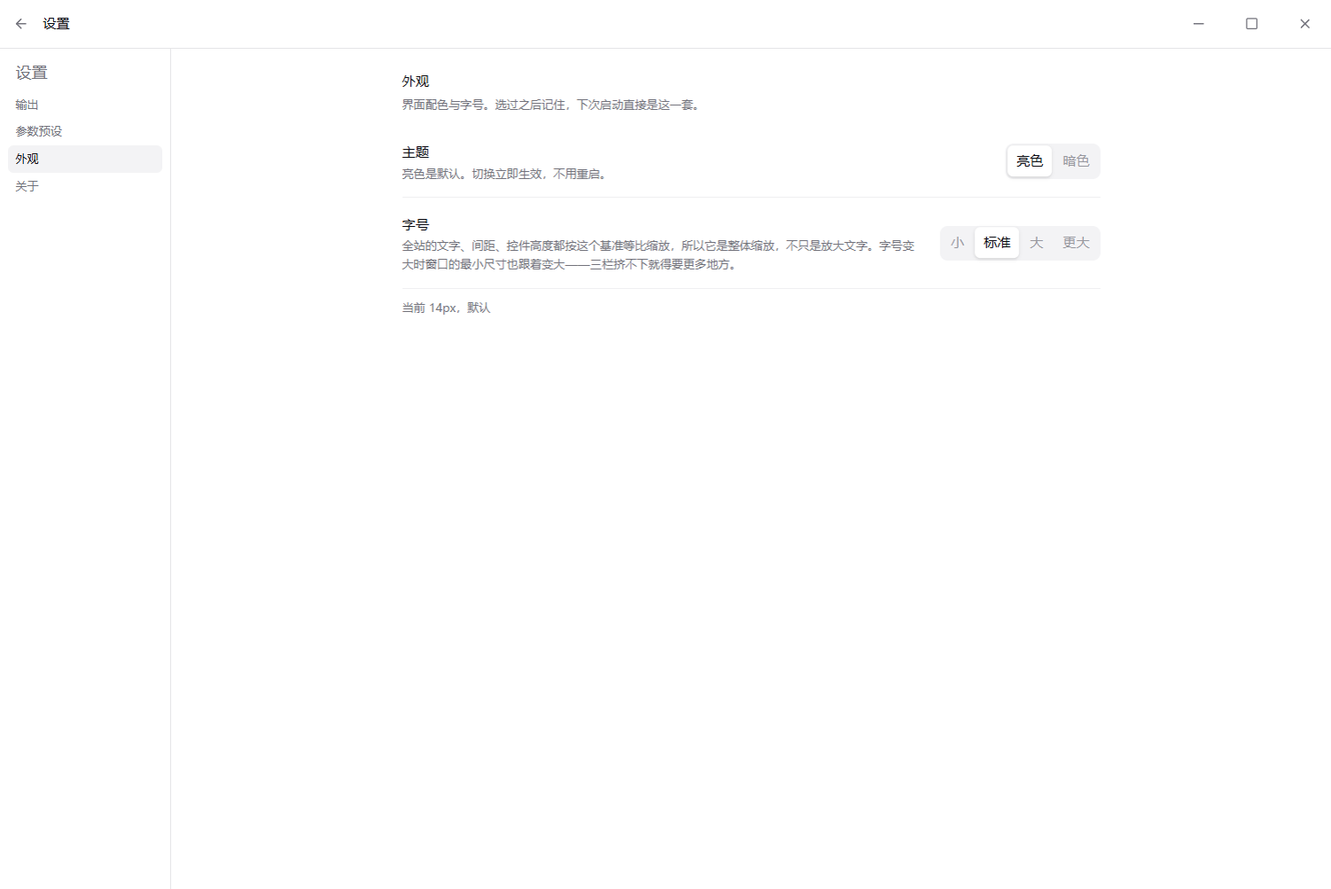
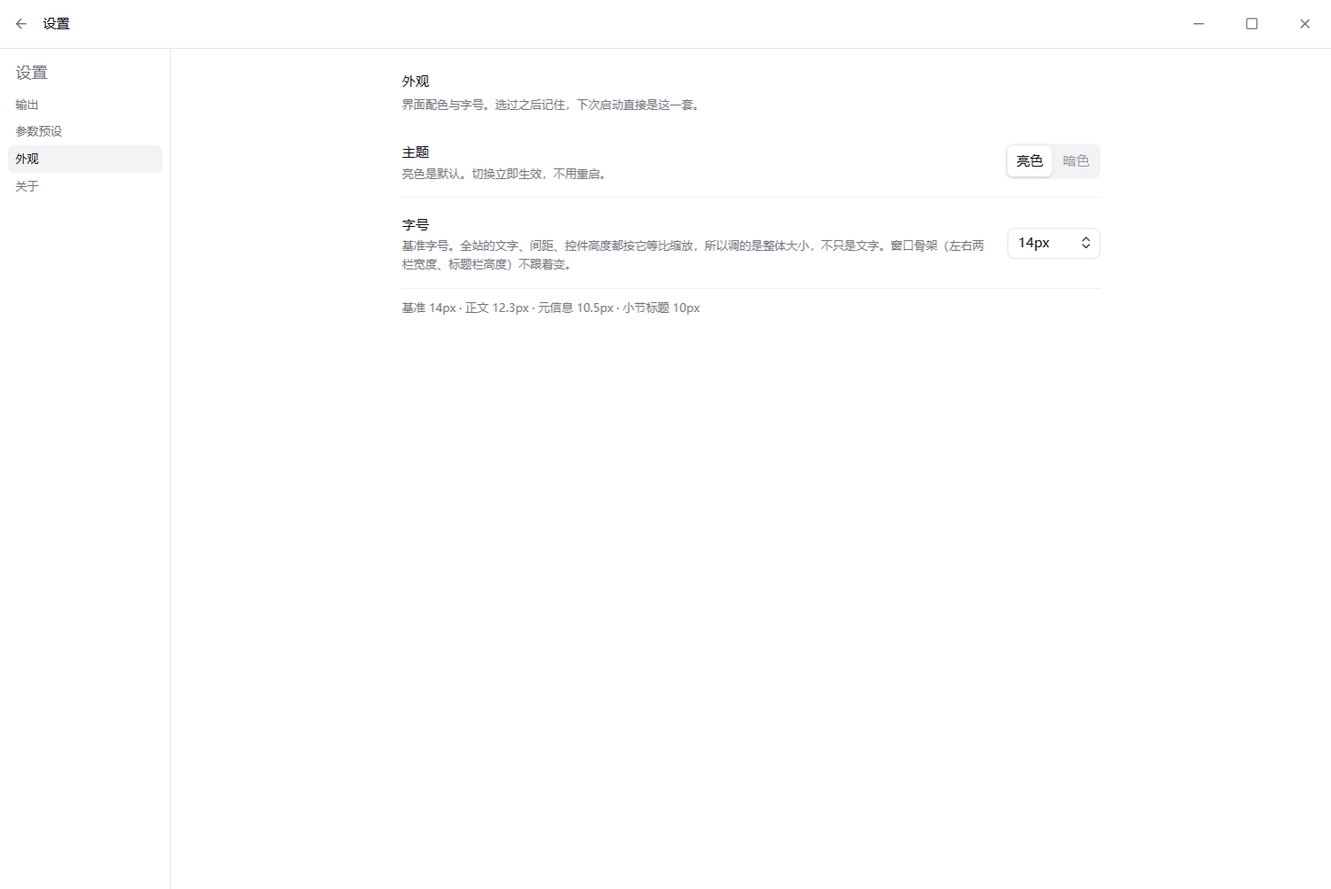
docs: 记下字号的返工与原因
ADR-019 修订：范围改成 10–24px 之后，"面板宽度跟着字号缩放"这个前提就不成立了——
24px 下三栏骨架要 1600px，窗口下限被顶到 1611px，普通笔记本装不下。
外壳尺寸写回固定像素，minWindowSize 与"存设置时撑开窗口"那套一起删掉。

把这条返工留在文档里的原因：它说明了一个顺序问题——先定取值范围，再定缩放策略。
反过来做就得返工一次，而这次只花了十几分钟，是因为改动都还在未提交状态。

设计系统的"该不该跟着缩放"表更新为"内容缩放、外壳不动"，并写清两类固定像素
各自的理由（对齐系统 chrome / 保住三栏骨架）。界面规格与测试清单同步。

验证：pre-commit 文风检查通过；openspec spec 用 REMOVED + ADDED 两条换两条
（工具移动目录时又遇到 EPERM，spec 与归档都手动核对过）

Refs: ADR-019

Changed region(s): [[0.3063, 0.2473, 0.8269, 0.3091], [0.3063, 0.34, 0.5206, 0.3709]]

diff --git a/docs/decisions.md b/docs/decisions.md
@@ -26,7 +26,7 @@
 | ADR-016 | 加亮暗两套主题，默认亮色（替代 ADR-007"只发暗色"） | 已接受 |
 | ADR-017 | 移除产品内的 AI 参数建议（替代 ADR-005） | 已接受 |
 | ADR-018 | 主界面与设置页分工：偏好搬进设置页，主界面只留转换 | 已接受 |
-| ADR-019 | 字号做成整体缩放，窗口下限跟着字号走 | 已接受 |
+| ADR-019 | 字号调的是根字号；外壳尺寸不跟着走 | 已接受 · 同日修订 |
 
 ---
 
@@ -330,36 +330,44 @@
 
 ---
 
-## ADR-019 · 字号做成整体缩放，窗口下限跟着字号走
+## ADR-019 · 字号调的是根字号；外壳尺寸不跟着走
 
-- **日期**：2026-09-23
+- **日期**：2026-09-23（同日修订过一次，见反馈第一条）
 - **状态**：已接受。补完 ADR-018 留下的设置页，把 ADR-016 的主题那套"首帧即正确"的做法复用到第二个偏好上。
-- **背景**：需求方要求设置页支持调全局字体大小。
+- **背景**：需求方要求设置页支持调全局字体大小，并指定了 10–24px 的范围与下拉的形态。
 - **决策**：这个项目的尺寸是从一个根字号派生的（`html { font-size: var(--font-size-base) }`，全站 rem），
-  所以"调字号"实现成**整体缩放**：小 13 / 标准 14 / 大 15 / 更大 16，默认标准。
-  同时把三处不跟着缩放的尺寸补齐——两档小字号改成 rem 令牌、两栏面板宽度与缩略图改成 rem、
-  窗口最小尺寸按档位等比放大。标题栏高度与窗口按钮仍是固定像素。
+  所以"调字号"实现成**整体缩放**：10–24px 逐像素可选、默认 14。
+  **但外壳尺寸不跟着缩放**：左右两栏宽度、标题栏高度、缩略图、窗口最小尺寸全部保持固定像素，
+  只有内容随根字号变。字号放大而窗口偏小时，顶栏与底栏靠文字截断降级。
+  另外把两档小字号从写死的 px 改成 rem 令牌（`text-label` / `text-metric`），它们要跟着放大。
 - **备选**：
   - 只放大文字、间距不动：做不到。字号大了而控件高度还是原来的，文字会顶到边上；要真做得把每处 padding 都拆成两套；
-  - 连续滑块（12–20px）：滑到 11px 或 19px 的组合没人验过，出了问题也说不清是布局的锅还是比例的锅；
-  - 保持原样、让用户用系统缩放：那是整个应用窗口的缩放，连窗口边框一起放大，控制不了；
-  - 字号上限不设、窗口下限不跟着走：实测 940×600 + 16px 会挤成一团（中心栏只剩 290px，
-    队列头部按钮重叠、底栏换行），不能算"这档能用"。
-- **理由**：整体缩放是这套 rem 体系天然支持的做法，改一个数、全站一致；而"每一档都在最小窗口下排得下"是可以用一条公式保证的，比逐个组件调更不容易烂。
-- **代价**：字号不再是纯粹的排版属性，它影响布局尺寸，所以每个新界面都得在两三个档位下各看一遍；
-  上限卡在 16px（要更大得把窗口拉宽）；字号变大时窗口会自己变大——这是有意的，但需要向用户解释。
+  - 外壳也跟着缩放（第一版就是这么做的）：范围一放宽到 24px 就崩——21rem 的详情栏在 24px 下是 504px，
+    三栏骨架要占 1600px，窗口下限被顶到 1611px，普通笔记本装不下；
+  - 保持原样、让用户用系统缩放：那是整个应用窗口的缩放，连窗口边框一起放大，控制不了。
+- **理由**：整体缩放是这套 rem 体系天然支持的做法，改一个数、全站一致。
+  而"哪些尺寸跟、哪些不跟"必须一刀切开：跟的（文字、间距、控件高度）让界面按比例变大，
+  不跟的（两栏宽度、标题栏）保证骨架在任何字号下都还是同一个骨架。
+- **代价**：字号不再是纯粹的排版属性，它影响内容尺寸，所以每个新界面都得在两三个字号下各看一遍；
+  24px 配最小窗口时信息密度会很低（名称与元信息被截断）——这是用户自选的组合，界面只保证不坏。
 - **反馈**：
+  - **修订（同日）**：第一版是四档（13/14/15/16）分段切换，并且让两栏宽度与窗口下限跟着字号缩放。
+    需求方随后改成"10–24px 的下拉"——这个范围直接否掉了跟着缩放的前提（24px 下骨架要 1600px）。
+    于是外壳尺寸写回固定像素、`minWindowSize` 与"存设置时撑开窗口"那套一起删掉。
+    留档的原因是它说明了一个顺序问题：**先定取值范围，再定缩放策略**；反过来做就得返工一次。
   - **小字不跟缩放是最容易漏的一处**。当时为了对齐上游把标签写成 `text-[10px]`、指标写成 `text-[11px]`，
-    都写死了像素。选"更大"的人往往会发现正文大了、标签没大——而会去调字号的用户，恰恰是看不清这些小字的人。
+    都写死了像素。调大字号的人往往会发现正文大了、标签没大——而会去调字号的用户，恰恰是看不清这些小字的人。
     已改成两个语义令牌 `text-label` / `text-metric`（rem 值，14px 基准下正好是 10px / 11px）。
-  - **固定像素不是一律要消灭的**。标题栏 44px、窗口按钮 48px、红绿灯留白这类要和系统对齐的尺寸必须写死，
+  - **固定像素不是一律要消灭的**。标题栏 44px、窗口按钮 48px 这类要和系统对齐的尺寸必须写死，
     否则缩放之后窗口控制会跟系统不一致。这条在 `docs/design-system.md` 里单独标出来了。
     顺手修掉一个漏网的：窗口按钮原先是 `w-12`（rem），16px 下会变成 56px，与系统的 46px 对不上，已改成 `w-[48px]`。
-  - 窗口下限的实测：940×600 缩到最小 → 选「更大」→ 窗口被撑到 1076×689、下限 1074×686；
-    再选回「小」→ 下限降到 873×557，当前窗口不动（只放宽，不主动缩，免得打断用户）。
-    端到端里两条用例守着：一条查根字号与重启后的档位，一条直接问主进程要窗口下限。
+  - **截断比压缩好**。24px 配 940px 窗口时，第一版顶栏的"共 1 个文件"被压成一列一个字，
+    因为 flex 子项会一路缩到 min-content。改成"文字可截断、按钮不缩"之后，它会显示成"共…"。
+    端到端里两条用例守着：一条查根字号与重启后的值，一条确认 24px 下窗口下限仍是 940×600。
+  - **基准 ≠ 正文字号**。基准 14px 对应正文 12.25px，界面上直接给用户看"14px"会让人以为正文就是 14px。
+    设置页在字号下面报出派生的三个字号（正文 / 元信息 / 小节标题），把这件事说清楚。
   - 顺带纠正了设计文档里一处错误：缩略图原先写的是 96×54，实际是 `w-24`（84px @14）配 `h-[54px]`，
-    两个数都不对，而且长宽比不是 16:9。改成 `h-[3.5rem] w-24` 之后既随字号缩放，比例也对了。
+    两个数都不对，而且长宽比不是 16:9。改成 `h-[49px] w-24` 之后比例对了。
 
 ---
 

diff --git a/docs/ui-spec.md b/docs/ui-spec.md
@@ -63,7 +63,7 @@ Windows 桌面视频格式转换器。用户把视频拖进来，选一个质量
 | --- | --- | --- |
 | 输出 | 默认输出目录（＋恢复默认） | 设一次能用很久 |
 | 参数预设 | 预设管理 + 20 项参数分组表单 + 校验结果 | 一屏多的表单塞进对话框就得在里面再滚一遍 |
-| 外观 | 主题（亮 / 暗） | 偏好，不是每批文件都要决定的事 |
+| 外观 | 主题（亮 / 暗）、字号（10–24px） | 偏好，不是每批文件都要决定的事 |
 | 关于 | 应用版本、ffmpeg 版本、硬件加速（＋重新检测） | 只读信息，不该占顶栏 |
 
 ## 3. 逐区域功能
@@ -182,9 +182,9 @@ Windows 桌面视频格式转换器。用户把视频拖进来，选一个质量
 校验结果显示在参数区**顶部并吸顶**：参数表单有一屏多高，错误提示放底部等于没有。
 同时主界面的「开始转换」会被禁用——错误提示在另一屏，主界面必须自己把人拦住。
 
-**外观**：主题（亮色 / 暗色）与字号（小 / 标准 / 大 / 更大）两个分段切换。
-字号是根字号，全站文字、间距、控件高度一起等比缩放；默认标准（14px），选过记住，重启首帧即正确。
-选大档位时窗口最小尺寸会跟着变大（940×600 × 档位/14），当前窗口偏小时会被撑开。
+**外观**：主题（亮色 / 暗色，分段切换）与字号（10–24px 下拉，默认 14）。
+字号调的是**根字号**：全站文字、间距、控件高度一起等比缩放，但左右两栏宽度、标题栏高度与窗口最小尺寸不变——外壳固定、只有内容缩放。
+选过记住，重启首帧即正确。字号下面一行报出派生的三个字号，免得用户对着"基准 14px"猜正文到底多大。
 
 **关于**：应用版本、ffmpeg 完整版本串（整宽、可换行）、硬件加速状态（＋「重新检测」）。
 
@@ -198,7 +198,7 @@ Windows 桌面视频格式转换器。用户把视频拖进来，选一个质量
 6. **设置记忆**：档位、输出格式、输出目录、预设、主题、**专业参数**都会保存，下次启动恢复
 7. **不覆盖源文件**：输出路径是"原名 + `.ffshift` 后缀"
 8. **参数配置**：在设置页里；「不干预」永远是默认项；预设可存、可删、可导入导出；有错时禁用主界面的「开始转换」
-9. **主题**：亮暗两套，**默认亮色**，切换入口在设置的「外观」里；启动那一刻就是正确主题，不会先闪一下另一个
+9. **主题与字号**：主题亮暗两套、**默认亮色**；字号 10–24px、**默认 14**。两者都在设置的「外观」里，选过记住，启动那一刻就是对的，不会先闪一下或先小后大地跳一下
 10. **两屏不混**：设置页里没有队列，转换界面里没有设置表单
 
 ## 5. 渲染需要的数据字段
@@ -268,7 +268,8 @@ interface TaskItem {
 | `status-bar` | 主界面底栏 |
 
 **改这些属性等于改测试契约**，要同步改 `e2e/`。
-主题断言看 `<html>` 上的 `dark` 类，或设置页「外观」里 `data-active` 的那个标签；`theme-option` 与 `font-size-option` 是主题与字号这两个分段切换的锚点。字号的可验证面有三处：`html` 的 `font-size`、设置里的档位名、主进程窗口的 `getMinimumSize()`。
+主题断言看 `<html>` 上的 `dark` 类，或设置页「外观」里 `data-active` 的那个标签；`theme-option` 是主题分段切换的锚点，字号看 `font-size-preview` 的派生值。
+字号的可验证面：`html` 的 `font-size`、设置里的像素值、主进程窗口的 `getMinimumSize()`（应恒为 940×600）。
 
 ## 7. 已知与刻意不做
 

diff --git a/openspec/specs/settings/spec.md b/openspec/specs/settings/spec.md
@@ -60,36 +60,36 @@ TBD - created by archiving change 2026-09-23-add-settings-page. Update Purpose a
 
 - **WHEN** 用户在设置里选了输出目录并返回
 - **THEN** 主界面底栏显示新的输出位置
-### Requirement: 界面字号档位
+### Requirement: 界面字号
 
-系统 SHALL 在设置页的「外观」分类里提供界面字号档位：小、标准、大、更大，默认标准。选择 SHALL 被记住。字号 SHALL 作为根字号生效，全站的文字、间距与控件高度 SHALL 一起等比缩放，界面 SHALL NOT 出现"文字放大了但标签还是原来那么小"的情况。
+系统 SHALL 在设置页的「外观」分类里提供界面字号选择，取值范围 SHALL 为 10–24px 的每一个整数，默认 14px。选择 SHALL 被记住。字号 SHALL 作为根字号生效，全站文字、间距与控件高度 SHALL 一起等比缩放。界面 SHALL 报出由基准派生出的可见字号（正文、元信息、小节标题）。
 
-#### Scenario: 切换字号
+#### Scenario: 选择字号
 
-- **WHEN** 用户在设置里选择「更大」
-- **THEN** 全站文字、间距与控件高度一起变大，根字号为 16px
+- **WHEN** 用户在设置里选择 18px
+- **THEN** 根字号变为 18px，正文、元信息与小节标题按同一比例变大，界面同时显示它们的实际大小
+
+#### Scenario: 越界与非法值
+
+- **WHEN** 设置文件里的字号是 40 或不是数字
+- **THEN** 40 收敛到 24，非法值回落到 14，界面不会出现没有字号的状态
 
 #### Scenario: 记住选择
 
-- **WHEN** 用户选了「更大」后重启应用
-- **THEN** 首帧就是 16px，不会先小后大地跳一下
+- **WHEN** 用户选了 18px 后重启应用
+- **THEN** 首帧就是 18px，不会先小后大地跳一下
 
 #### Scenario: 旧设置文件
 
-- **WHEN** 读取一份没有字号字段的旧设置文件
-- **THEN** 字号为标准档（14px），界面与升级前一致
+- **WHEN** 读取一份字号写成档位名的旧设置文件
+- **THEN** 映射成对应的像素值，界面与升级前一致
 
-### Requirement: 窗口下限随字号变化
+### Requirement: 外壳尺寸不随字号变化
 
-系统 SHALL 让窗口的最小尺寸随字号档位等比变化，SHALL 保证任一档位下三栏都排得下。当字号调大而当前窗口小于新的下限时，系统 SHALL 把窗口撑到下限。当字号调小时，系统 SHALL 只放宽下限，SHALL NOT 主动缩小用户当前的窗口。
+左右两栏宽度、标题栏高度与窗口最小尺寸 SHALL NOT 随字号变化——只有内容缩放。字号放大而窗口偏小时，顶栏与底栏 SHALL 通过截断文字降级，SHALL NOT 把文字压成一列一个字。
 
-#### Scenario: 小窗口里调大字号
+#### Scenario: 最大字号配最小窗口
 
-- **WHEN** 用户在 940×600 的窗口里把字号调到「更大」
-- **THEN** 窗口被撑到至少 1074×686，三栏完整可读
-
-#### Scenario: 调小字号
-
-- **WHEN** 用户在「更大」档把字号调回「小」
-- **THEN** 下限变为 873×557，但当前窗口尺寸不变
+- **WHEN** 用户在 940×600 的窗口里把字号调到 24px
+- **THEN** 窗口最小尺寸仍是 940×600，两栏宽度不变，顶栏与底栏文字被截断但按钮完整可点
 

diff --git a/docs/design-system.md b/docs/design-system.md
@@ -128,17 +128,19 @@ EnsoCode 把这条做到了极致，本项目直接跟进：
 - 路径、编码名、日志用 `font-mono`（`JetBrains Mono` → `Consolas` → `ui-monospace`）。
 - 小节标题固定配方：`text-label font-medium tracking-wide text-muted-foreground uppercase`。
 
-**根字号 `--font-size-base` 是用户可调的**（设置 → 外观 → 字号，四档 13/14/15/16px，默认 14）。
+**根字号 `--font-size-base` 是用户可调的**（设置 → 外观 → 字号，10–24px 逐像素可选，默认 14）。
 也就是 **1rem = 14px、0.25rem = 3.5px** 是默认值而不是常数：`h-8` = 28px、`gap-2` = 7px、`px-3` = 10.5px，
 字号调大这些全部等比变大。所以写尺寸时先想清楚这一处**该不该跟着缩放**：
 
 | 该缩放（写 rem / Tailwind 数值） | 不该缩放（写死像素） |
 | --- | --- |
-| 文字、间距、控件高度、圆角、图标、面板宽度、缩略图 | 标题栏高度 `h-[44px]`、窗口按钮 `w-[48px]`、与系统 chrome 对齐的任何尺寸 |
+| 文字、间距、控件高度、圆角、图标 | 两栏宽度（`264px` / `300px`）、标题栏高度 `h-[44px]`、窗口按钮 `w-[48px]`、缩略图 `h-[49px] w-24`、窗口最小尺寸 |
 
-后者的理由：无边框窗口的这三个按钮要跟系统窗口长得一样，缩放之后跟系统对不上就很怪。
-另外两栏宽度用的是 `19rem` / `21rem` 这类 rem 值——字号一大，面板跟着变宽，
-不然同样的文字会在同一个宽度里挤成一团（窗口下限也按这个逻辑等比放大，见 `font-scale.ts`）。
+后者的理由分两类：标题栏与窗口按钮要和系统 chrome 对齐，缩放之后跟系统对不上；
+两栏宽度与窗口下限是**外壳**——外壳要是跟着字号走，24px 下三栏骨架要占 1600px，普通笔记本装不下
+（ADR-019 的第一版就是这么做的，被一次范围调整推翻了）。
+所以规则是一句话：**内容随字号缩放，外壳不动**。字号很大而窗口很小时，顶栏与底栏靠文字截断降级
+（文字可截断、按钮 `shrink-0`，不能让 flex 子项一路缩到 min-content 压成一列一个字）。
 
 ### 间距 / 圆角
 
@@ -155,7 +157,7 @@ EnsoCode 把这条做到了极致，本项目直接跟进：
 | --- | --- |
 | 标题栏 | `h-[44px]`（固定），窗口按钮 `w-[48px]`（固定）× 3 |
 | 左栏 / 详情栏头部、工作区头部 | `h-12`（42px） |
-| 左栏宽 `19rem`（266px）；详情栏宽 `21rem`（294px） | 窗口默认 1200×800；最小尺寸随字号走，14px 基准下是 940×600 |
+| 左栏宽 `264px`（固定）；详情栏宽 `300px`（固定） | 窗口默认 1200×800，最小 940×600（都不随字号变） |
 | 行内图标按钮 | `h-7 w-7`（24.5px）/ `h-8 w-8`（28px）+ `rounded-md` |
 | 图标尺寸 | 行内 14px（`h-3.5 w-3.5`）／主按钮与空态 16px（`h-4 w-4`）／chips 12px（`h-3 w-3`） |
 | 缩略图 | `h-[3.5rem] w-24`（49 × 84，约 16:9，`rounded-md`）；详情栏里是 `aspect-video` 大图 |

diff --git a/openspec/changes/archive/2026-09-23-revise-font-size-range/specs/settings/spec.md b/openspec/changes/archive/2026-09-23-revise-font-size-range/specs/settings/spec.md
@@ -1,0 +1,48 @@
+## REMOVED Requirements
+
+### Requirement: 界面字号档位
+
+**Reason**: 改成 10–24px 逐像素可选，不再是四档离散值（见 ADDED 的「界面字号」）。
+
+**Migration**: 设置文件里的档位名会被映射成像素值（small→13、default→14、large→15、larger→16），用户的选择不丢。
+
+### Requirement: 窗口下限随字号变化
+
+**Reason**: 这套机制是为了"面板宽度随字号缩放"服务的。范围放宽到 24px 之后，跟着缩放会把窗口下限顶到 1611px，普通笔记本装不下。
+
+**Migration**: 外壳尺寸（两栏宽度、标题栏高度）不再跟字号变，窗口下限固定回 940×600。字号很大而窗口很小时，顶栏与底栏靠文字截断降级。
+
+## ADDED Requirements
+
+### Requirement: 界面字号
+
+系统 SHALL 在设置页的「外观」分类里提供界面字号选择，取值范围 SHALL 为 10–24px 的每一个整数，默认 14px。选择 SHALL 被记住。字号 SHALL 作为根字号生效，全站文字、间距与控件高度 SHALL 一起等比缩放。界面 SHALL 报出由基准派生出的可见字号（正文、元信息、小节标题）。
+
+#### Scenario: 选择字号
+
+- **WHEN** 用户在设置里选择 18px
+- **THEN** 根字号变为 18px，正文、元信息与小节标题按同一比例变大，界面同时显示它们的实际大小
+
+#### Scenario: 越界与非法值
+
+- **WHEN** 设置文件里的字号是 40 或不是数字
+- **THEN** 40 收敛到 24，非法值回落到 14，界面不会出现没有字号的状态
+
+#### Scenario: 记住选择
+
+- **WHEN** 用户选了 18px 后重启应用
+- **THEN** 首帧就是 18px，不会先小后大地跳一下
+
+#### Scenario: 旧设置文件
+
+- **WHEN** 读取一份字号写成档位名的旧设置文件
+- **THEN** 映射成对应的像素值，界面与升级前一致
+
+### Requirement: 外壳尺寸不随字号变化
+
+左右两栏宽度、标题栏高度与窗口最小尺寸 SHALL NOT 随字号变化——只有内容缩放。字号放大而窗口偏小时，顶栏与底栏 SHALL 通过截断文字降级，SHALL NOT 把文字压成一列一个字。
+
+#### Scenario: 最大字号配最小窗口
+
+- **WHEN** 用户在 940×600 的窗口里把字号调到 24px
+- **THEN** 窗口最小尺寸仍是 940×600，两栏宽度不变，顶栏与底栏文字被截断但按钮完整可点

diff --git a/docs/testing.md b/docs/testing.md
@@ -5,7 +5,7 @@
 
 ## 1. 自动化测试（已落地）
 
-命令：`npm run test:unit`（254 条）、`npm run test:integration`（25 条，真实调用本机 ffmpeg）、`npm run test:e2e`（17 条，驱动真实界面）。
+命令：`npm run test:unit`（258 条）、`npm run test:integration`（25 条，真实调用本机 ffmpeg）、`npm run test:e2e`（17 条，驱动真实界面）。
 集成测试在环境没有 ffmpeg 时整组跳过（`describe.skipIf`），不会挡住协作者。
 
 三层测试的分工：单测盯纯逻辑与参数构造；集成测试盯 ffmpeg 跑不跑得通；端到端盯"界面上点一下，整条链路对不对"。
@@ -147,3 +147,4 @@ $bytes = [System.IO.File]::ReadAllBytes("fixture_10s.mp4")[0..1048575]
 | 2026-09-23 | `f08593f` ui: 新增设置页，主界面只留转换 | 17 个文件 | 待人工确认（验证信息：typecheck、build 通过；单测 245 条全绿；e2e 15 条全绿（57.3s）；） <!-- commit:f08593f --> |
 | 2026-09-23 | 设置页加界面字号档位 | 见 ADR-019 | 待人工确认（验证信息：typecheck 通过、build 通过、单测 254 条全绿（新增 9 条：档位取值、窗口下限换算、argv 解析）、e2e 17 条全绿（66.6s，新增 2 条：字号记忆与重启、窗口下限随字号变化）；四档字号各截图人工看过；940×600 + 16px 的挤压问题在窗口下限跟着缩放后消除，实测撑到 1076×689） |
 | 2026-09-23 | `fe0d1f1` settings: 界面字号档位与窗口下限 | 5 个文件 | 待人工确认（验证信息：单测 254 条全绿（新增 9 条）） <!-- commit:fe0d1f1 --> |
+| 2026-09-23 | 字号改成 10–24px 下拉，外壳尺寸不再跟着缩放 | 见 ADR-019 修订 | 待人工确认（验证信息：typecheck 通过、build 通过、单测 258 条全绿（新增 13 条：范围/收敛/派生字号/argv）、e2e 17 条全绿（64.3s）；10/14/18/24px 各截图人工看过；940×600 + 24px 由"压成一列一个字"改成文字截断降级，窗口下限恒为 940×600） |

diff --git a/openspec/changes/archive/2026-09-23-revise-font-size-range/proposal.md b/openspec/changes/archive/2026-09-23-revise-font-size-range/proposal.md
@@ -1,0 +1,20 @@
+## Why
+
+上一版把字号做成了四档分段切换（13/14/15/16px），并且让两栏面板宽度与窗口下限跟着字号缩放。需求方要求改成 **10–24px 的下拉**。
+
+这个范围直接否掉了"面板宽度跟着缩放"那套：21rem 的详情栏在 24px 下是 504px，三栏骨架要占 1600px 宽，普通笔记本装不下，窗口下限会被顶到 1611px——那不是"能用"，是把窗口锁死。
+
+## What Changes
+
+- 字号改成 10–24px 逐像素可选的下拉，默认 14px
+- **外壳尺寸不再跟字号变**：左右两栏宽度、标题栏高度、缩略图都写回固定像素；只有内容随根字号缩放
+- 去掉"窗口最小尺寸随字号变化"这套机制（`minWindowSize`，以及存设置时撑开窗口的那段）
+- 设置页在字号下方报出派生字号（正文 / 元信息 / 小节标题），免得用户对着"基准 14px"猜
+- 顶栏与底栏的排布改成"文字截断、按钮不缩"：字号很大而窗口很小时，宁可少显示几个字，也不能让它们各自压成一列一个字
+- 设置文件里的字号从档位名改成像素值（版本 6 → 7）；旧档位名（small/default/large/larger）在解析时认一下，升级不丢选择
+
+## 影响
+
+- 旧设置文件里的档位名会被映射成 13/14/15/16px，行为与升级前一致
+- 24px 在 1200px 窗口下排版正常；在 940px 最小窗口下靠截断降级（名称与元信息显示不全），不再出现压成一列一个字
+- 不影响：主题、质量档位、输出格式、目标体积、专业参数

diff --git a/openspec/changes/archive/2026-09-23-revise-font-size-range/tasks.md b/openspec/changes/archive/2026-09-23-revise-font-size-range/tasks.md
@@ -1,0 +1,23 @@
+## 1. 数据层
+
+- [x] 字号改成 10–24 的像素值，带收敛与越界处理
+- [x] 旧档位名映射成像素值
+- [x] 去掉 `minWindowSize` 与存设置时撑开窗口的那段
+
+## 2. 布局
+
+- [x] 左右两栏宽度、缩略图写回固定像素
+- [x] 顶栏与底栏：文字可截断、按钮不缩
+
+## 3. 界面
+
+- [x] 字号改成下拉，附派生字号预览
+
+## 4. 验证
+
+- [x] `npm run typecheck`
+- [x] `npm run test:unit`
+- [x] `npm run build`
+- [x] `npm run test:e2e`
+- [x] 10 / 14 / 18 / 24px 各截图；940×600 + 24px 确认只是截断、没有压成一列一个字
+

diff --git a/README.md b/README.md
@@ -35,7 +35,7 @@ Windows 优先的桌面视频格式转换器。界面用 Electron + React + Type
 - **过程可见**：百分比、剩余时间、速度，随时取消并清理半成品
 - **出错说人话**：磁盘满、目录不可写、格式不兼容、文件损坏各有对应说明
 - **专业参数**：20 项可调参数 + 预设管理，给懂行的人一个入口
-- 设置记忆、亮暗主题、四档界面字号、Windows 安装包
+- 设置记忆、亮暗主题、10–24px 可调界面字号、Windows 安装包
 
 逐条状态见 `docs/testing.md` 的冒烟清单（未实测的条目如实标注）。
 
